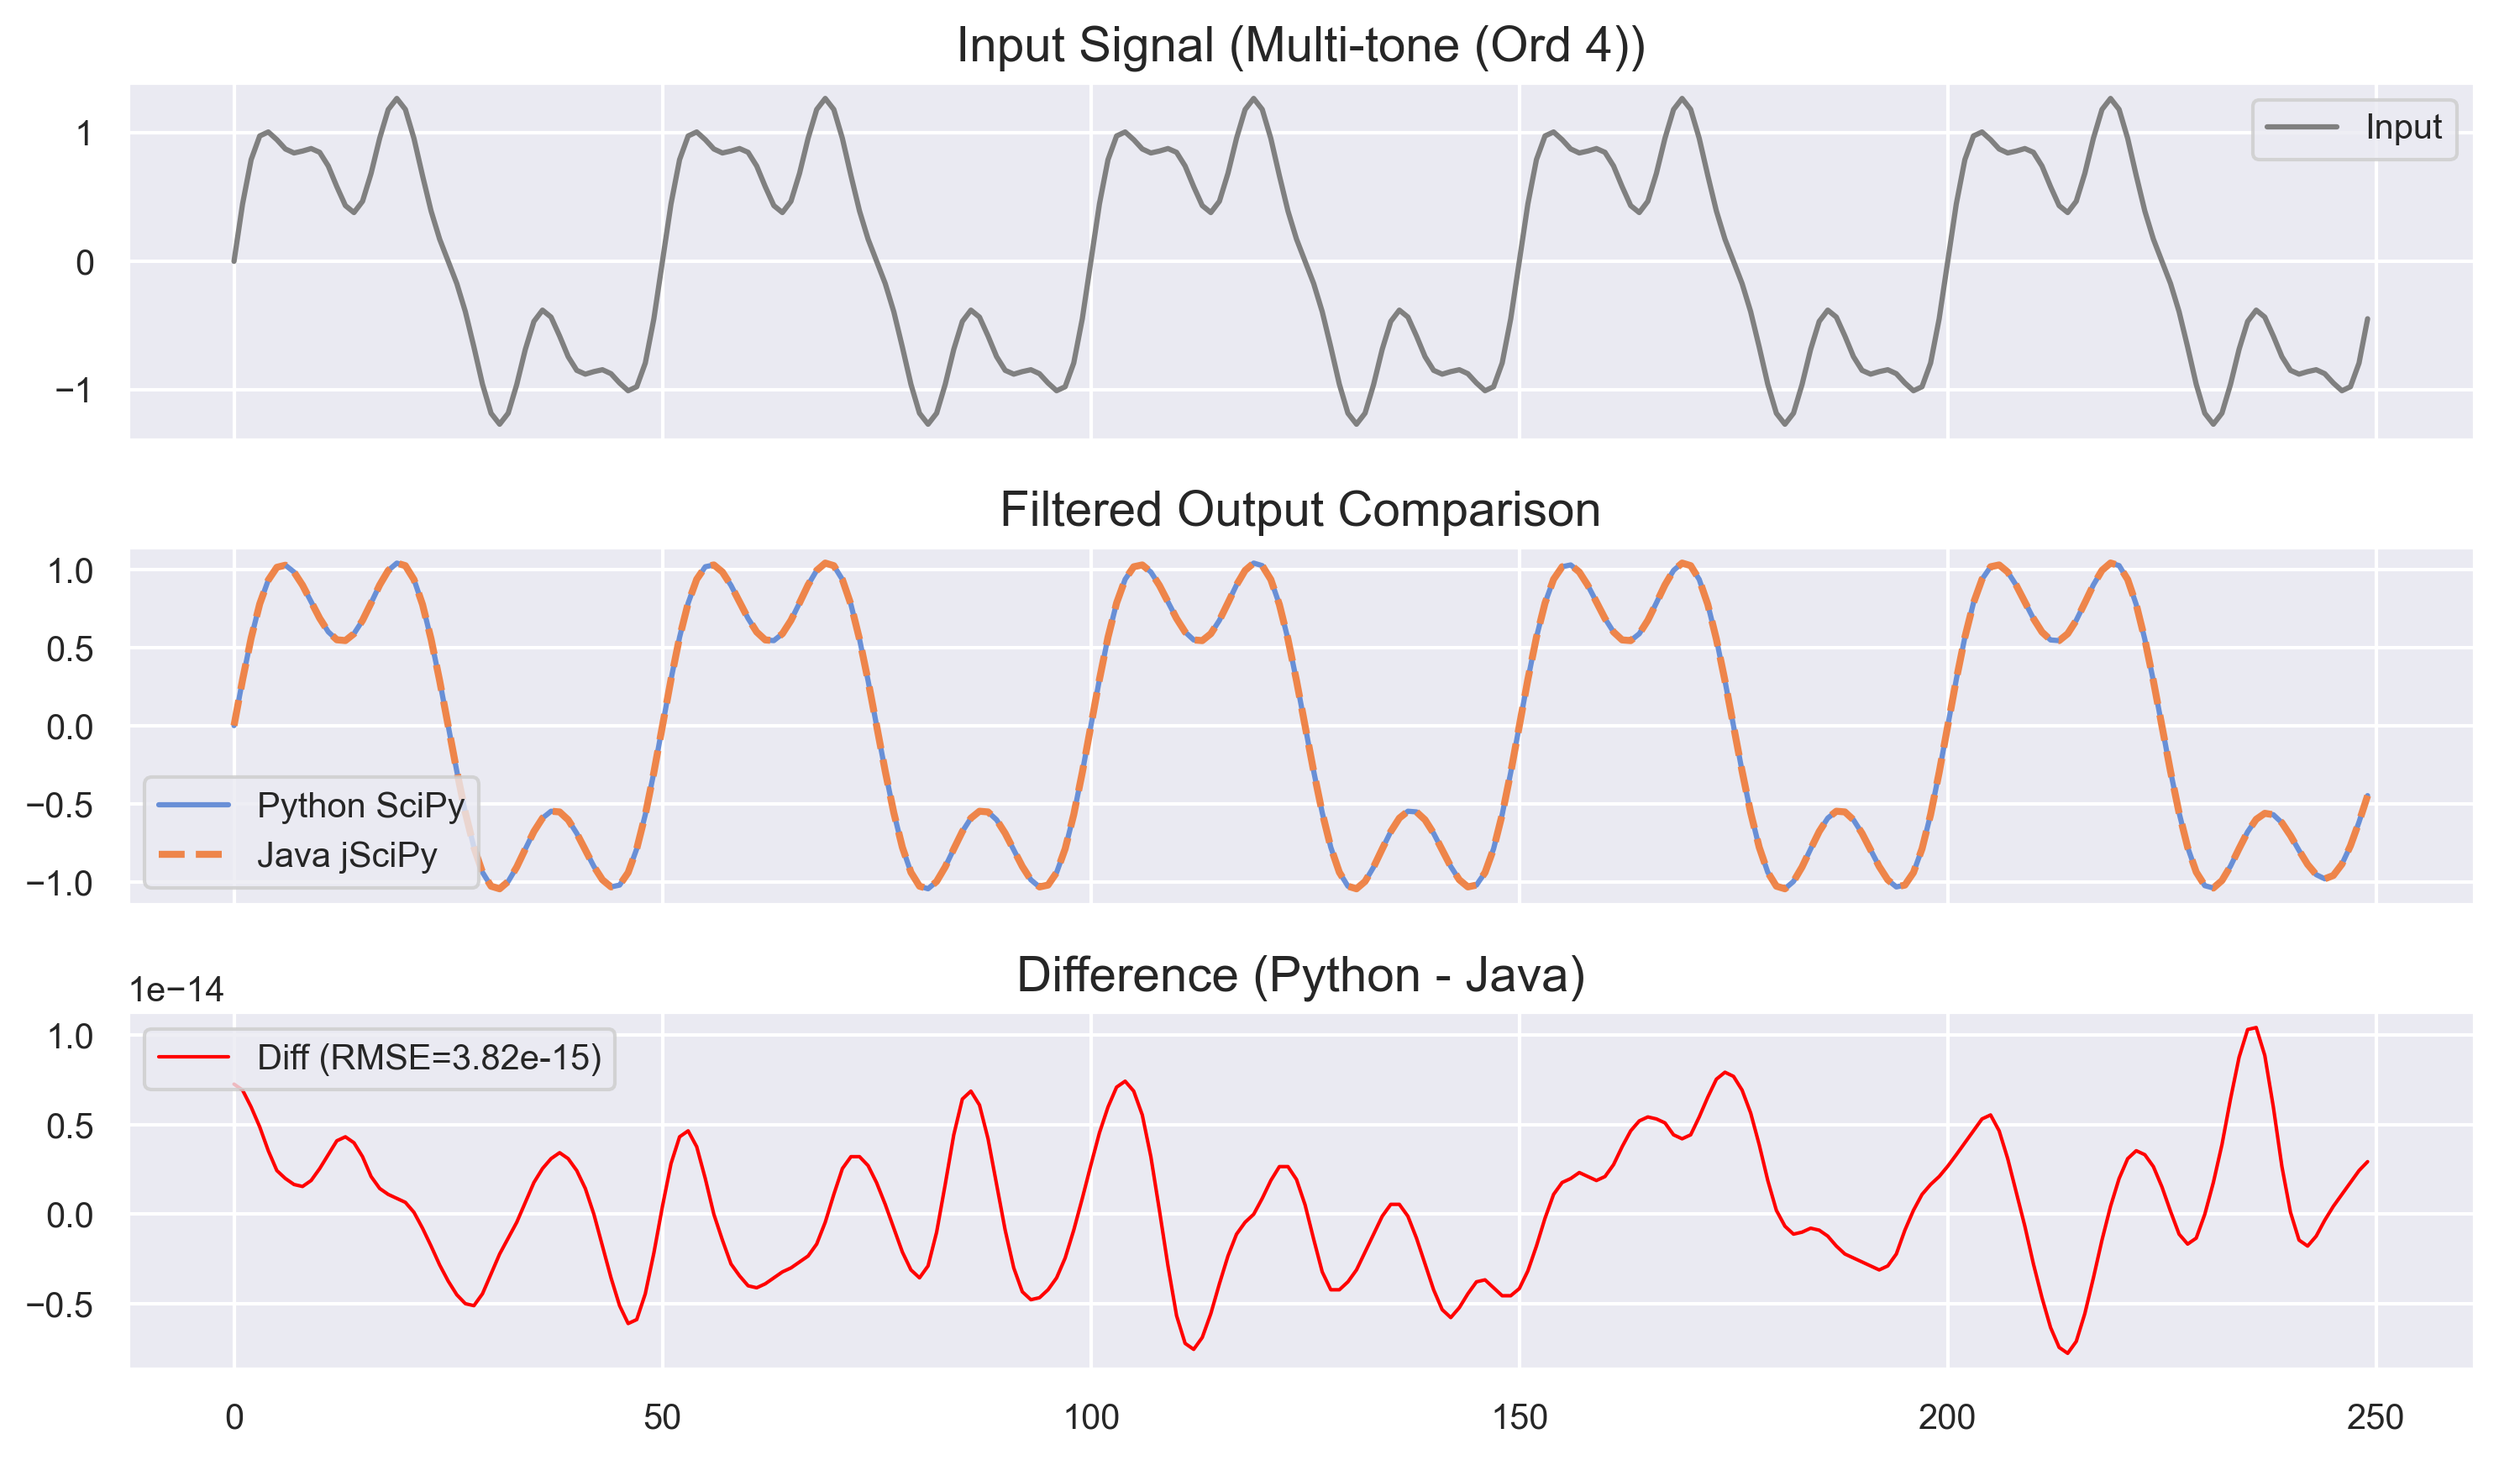
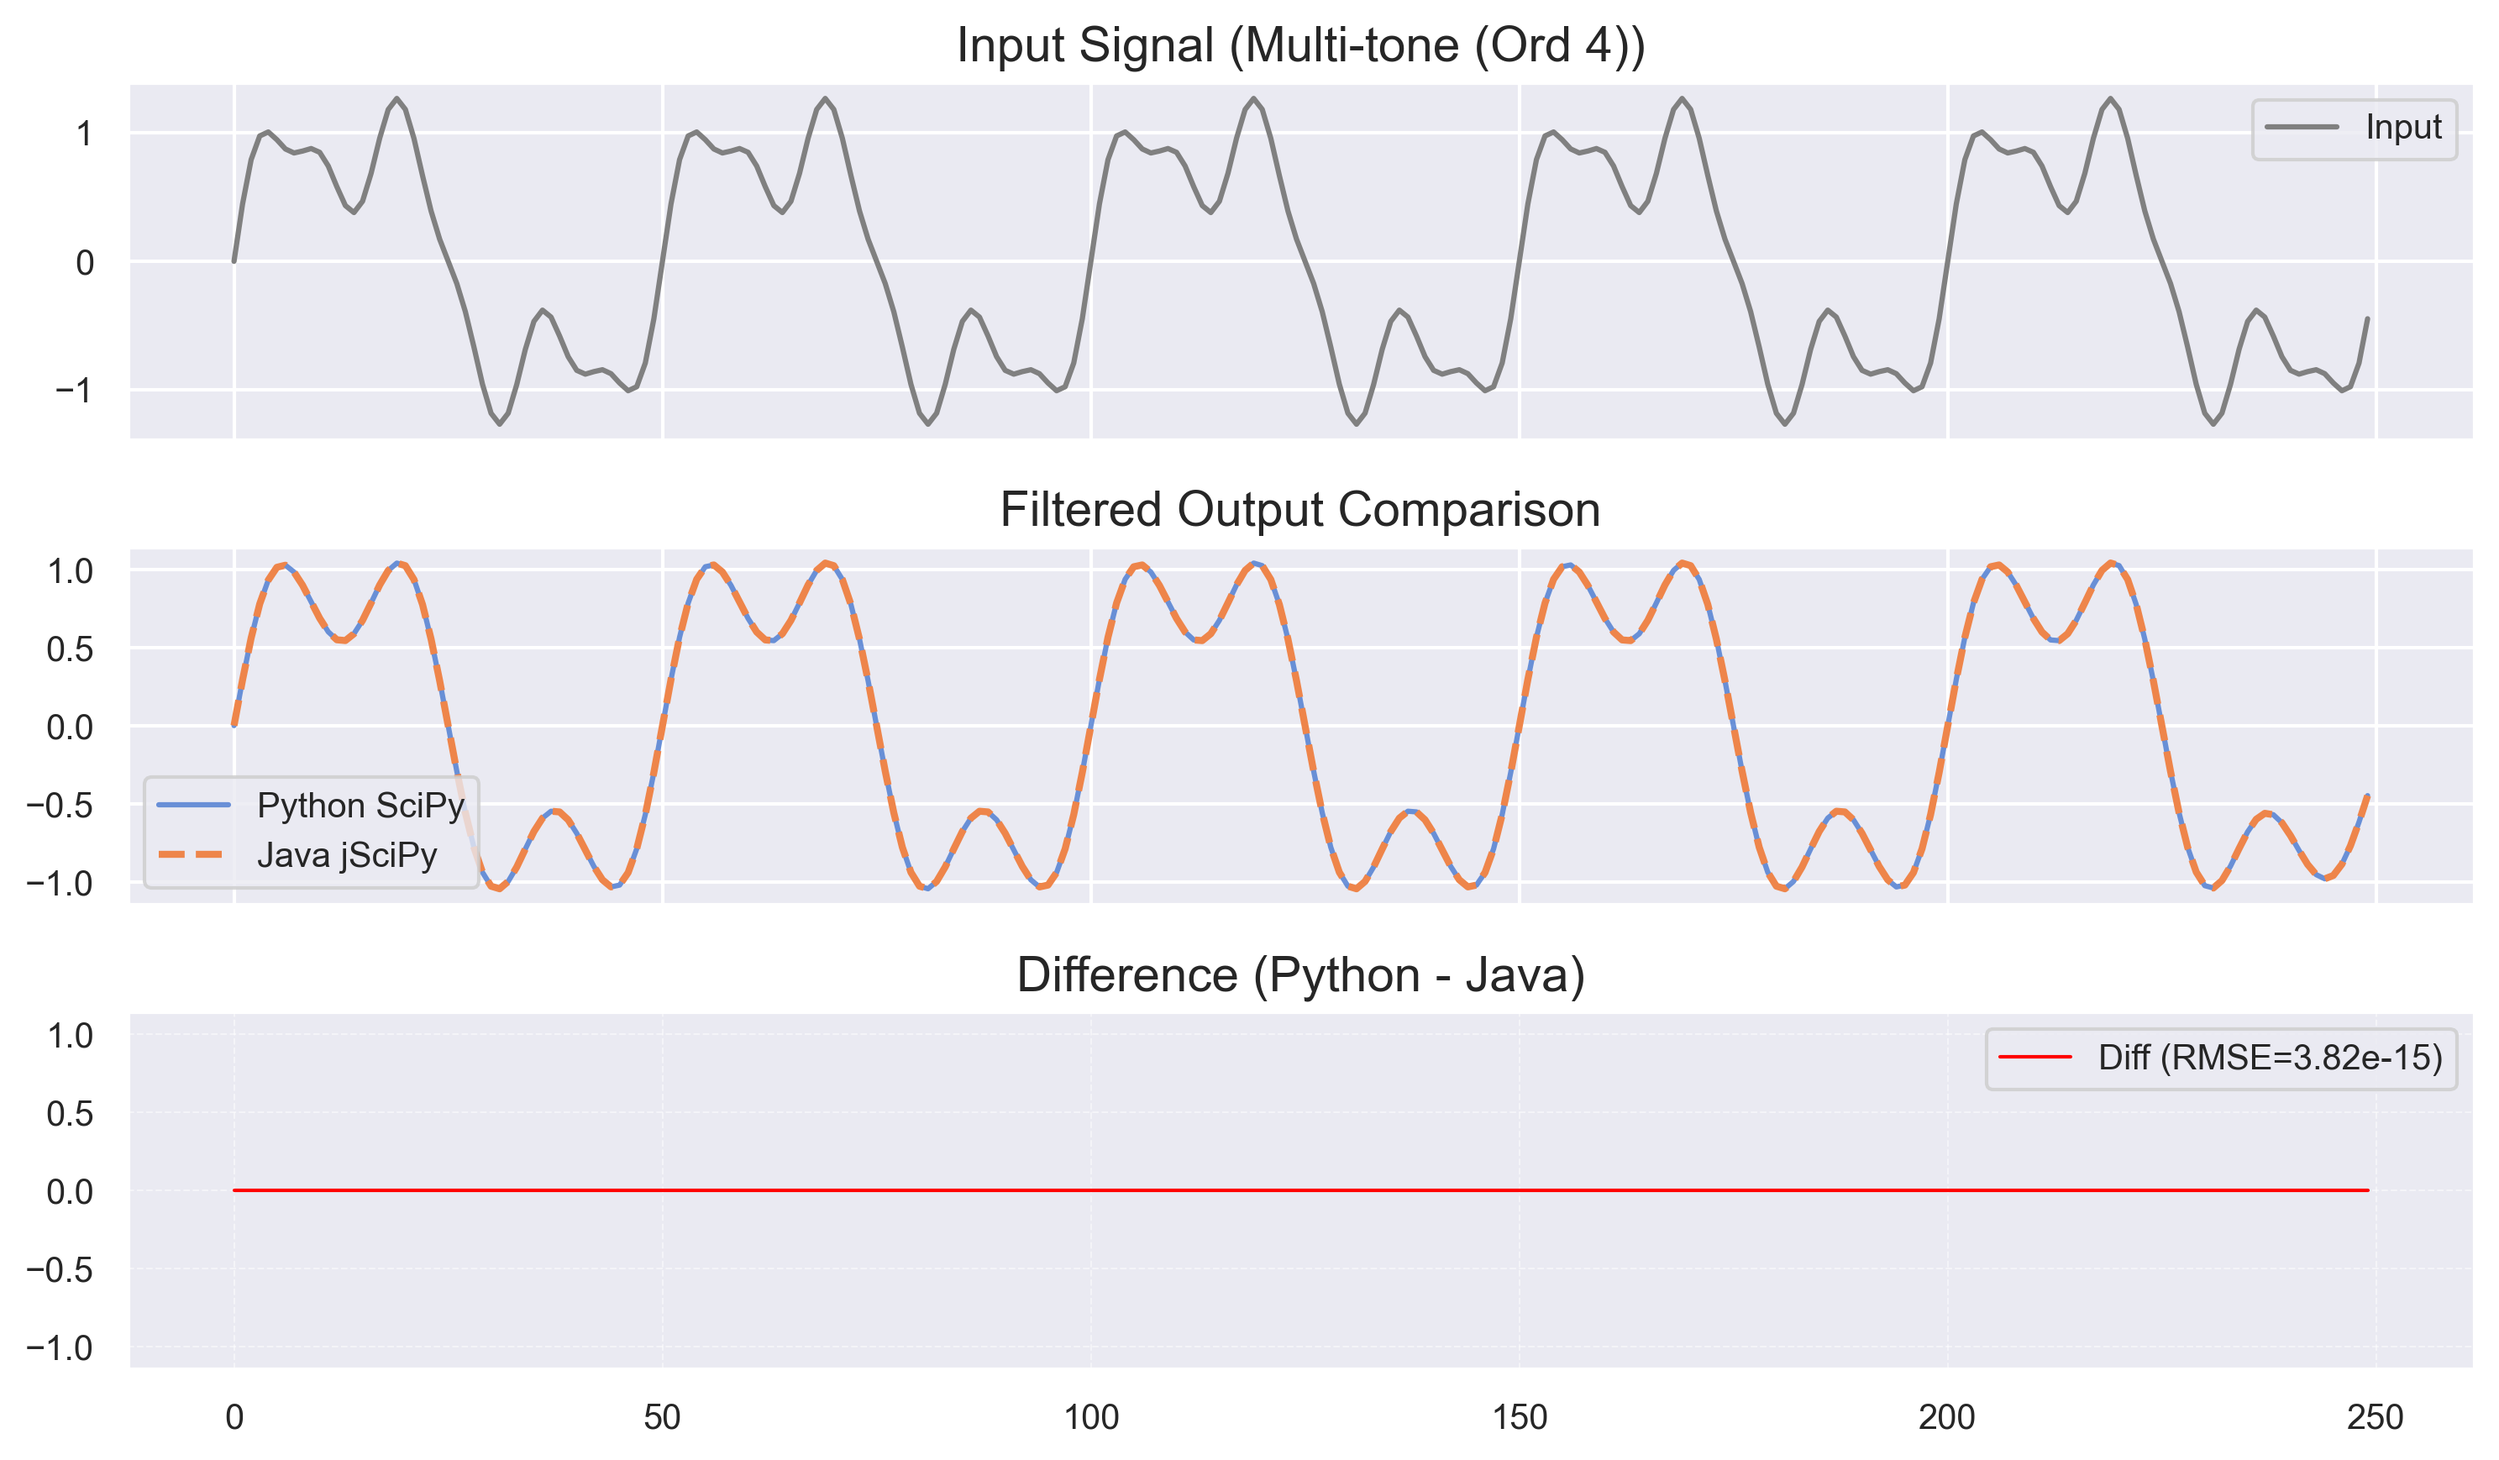
enhancement: Updated figures

diff --git a/python/comparison/style_utils.py b/python/comparison/style_utils.py
@@ -1,6 +1,7 @@
 import matplotlib.pyplot as plt
 import seaborn as sns
 import os
+import numpy as np
 
 # --- Configuration ---
 FIG_SIZE_WIDE = (10, 6)
@@ -36,3 +37,25 @@ def save_plot(fig, filename):
 def get_colors():
     """Returns the current seaborn color palette."""
     return sns.color_palette(PALETTE)
+
+def finalize_diff_plot(ax, signal_data, is_2d=False):
+    """
+    Sets the Y-axis (or color scale) of the difference plot to match the signal's magnitude.
+    This prevents tiny 1e-15 errors from looking like huge fluctuations due to autoscaling.
+    """
+    # Calculate signal amplitude (max absolute value)
+    ampl = np.max(np.abs(signal_data)) if len(signal_data) > 0 else 1.0
+    if ampl == 0: ampl = 1.0 # Safety
+    
+    # Margin factor to ensure peaks don't touch the edge
+    margin = 1.1
+    limit = ampl * margin
+    
+    if is_2d:
+        # For 2D heatmaps (imshow), we return vmin/vmax to be used by caller
+        return (-limit, limit)
+    else:
+        # For 1D plots, set ylim centered at 0
+        ax.set_ylim(-limit, limit)
+        # Optional: Add grid to emphasize the 'flatness'
+        ax.grid(True, which='both', linestyle='--', linewidth=0.5, alpha=0.5)

diff --git a/python/comparison/plot_fft2.py b/python/comparison/plot_fft2.py
@@ -50,7 +50,8 @@ def plot_fft2_comparison(py_real, py_imag, java_real, java_imag, title_suffix):
 
     # Difference in magnitude
     diff = np.abs(py_data) - np.abs(java_data)
-    im2 = axes[2].imshow(diff, cmap='coolwarm', aspect='auto')
+    vmin, vmax = style_utils.finalize_diff_plot(None, np.abs(py_data), is_2d=True)
+    im2 = axes[2].imshow(diff, cmap='coolwarm', aspect='auto', vmin=vmin, vmax=vmax)
     axes[2].set_title(f'Diff Mag (RMSE={rmse:.2e})')
     plt.colorbar(im2, ax=axes[2])
 

diff --git a/python/comparison/plot_convolve2d.py b/python/comparison/plot_convolve2d.py
@@ -39,7 +39,8 @@ def plot_comparison(py_file, java_file, title_suffix):
     plt.colorbar(im1, ax=axes[1])
 
     diff = py_data - java_data
-    im2 = axes[2].imshow(diff, cmap='coolwarm', aspect='auto')
+    vmin, vmax = style_utils.finalize_diff_plot(None, py_data, is_2d=True)
+    im2 = axes[2].imshow(diff, cmap='coolwarm', aspect='auto', vmin=vmin, vmax=vmax)
     axes[2].set_title(f'Diff (RMSE={rmse:.2e})')
     plt.colorbar(im2, ax=axes[2])
 

diff --git a/python/comparison/plot_chebyshev.py b/python/comparison/plot_chebyshev.py
@@ -35,6 +35,7 @@ def plot_test(input_filename, python_output_filename, java_output_filename, titl
         diff = python_output - java_output
         rmse = np.sqrt(np.mean(diff**2))
         ax3.plot(diff, label=f'Diff (RMSE={rmse:.2e})', color='red', linewidth=1.0)
+        style_utils.finalize_diff_plot(ax3, python_output)
         ax3.legend()
         ax3.set_title("Difference (Python - Java)")
         

diff --git a/python/comparison/plot_ellip.py b/python/comparison/plot_ellip.py
@@ -35,6 +35,7 @@ def plot_test(input_filename, python_output_filename, java_output_filename, titl
         diff = python_output - java_output
         rmse = np.sqrt(np.mean(diff**2))
         ax3.plot(diff, label=f'Diff (RMSE={rmse:.2e})', color='red', linewidth=1.0)
+        style_utils.finalize_diff_plot(ax3, python_output)
         ax3.legend()
         ax3.set_title("Difference (Python - Java)")
         

diff --git a/python/comparison/plot_butterworth.py b/python/comparison/plot_butterworth.py
@@ -35,6 +35,7 @@ def plot_test(input_filename, python_output_filename, java_output_filename, titl
         diff = python_output - java_output
         rmse = np.sqrt(np.mean(diff**2))
         ax3.plot(diff, label=f'Diff (RMSE={rmse:.2e})', color='red', linewidth=1.0)
+        style_utils.finalize_diff_plot(ax3, python_output)
         ax3.legend()
         ax3.set_title("Difference (Python - Java)")
 

diff --git a/python/comparison/plot_bessel.py b/python/comparison/plot_bessel.py
@@ -34,6 +34,7 @@ def plot_comparison():
     diff = scipy_out - java_out
     rmse = np.sqrt(np.mean(diff**2))
     ax3.plot(t, diff, label=f'Diff (RMSE={rmse:.2e})', color='red', linewidth=1.0)
+    style_utils.finalize_diff_plot(ax3, scipy_out)
     ax3.legend()
     ax3.set_title("Difference (Python - Java)")
 
